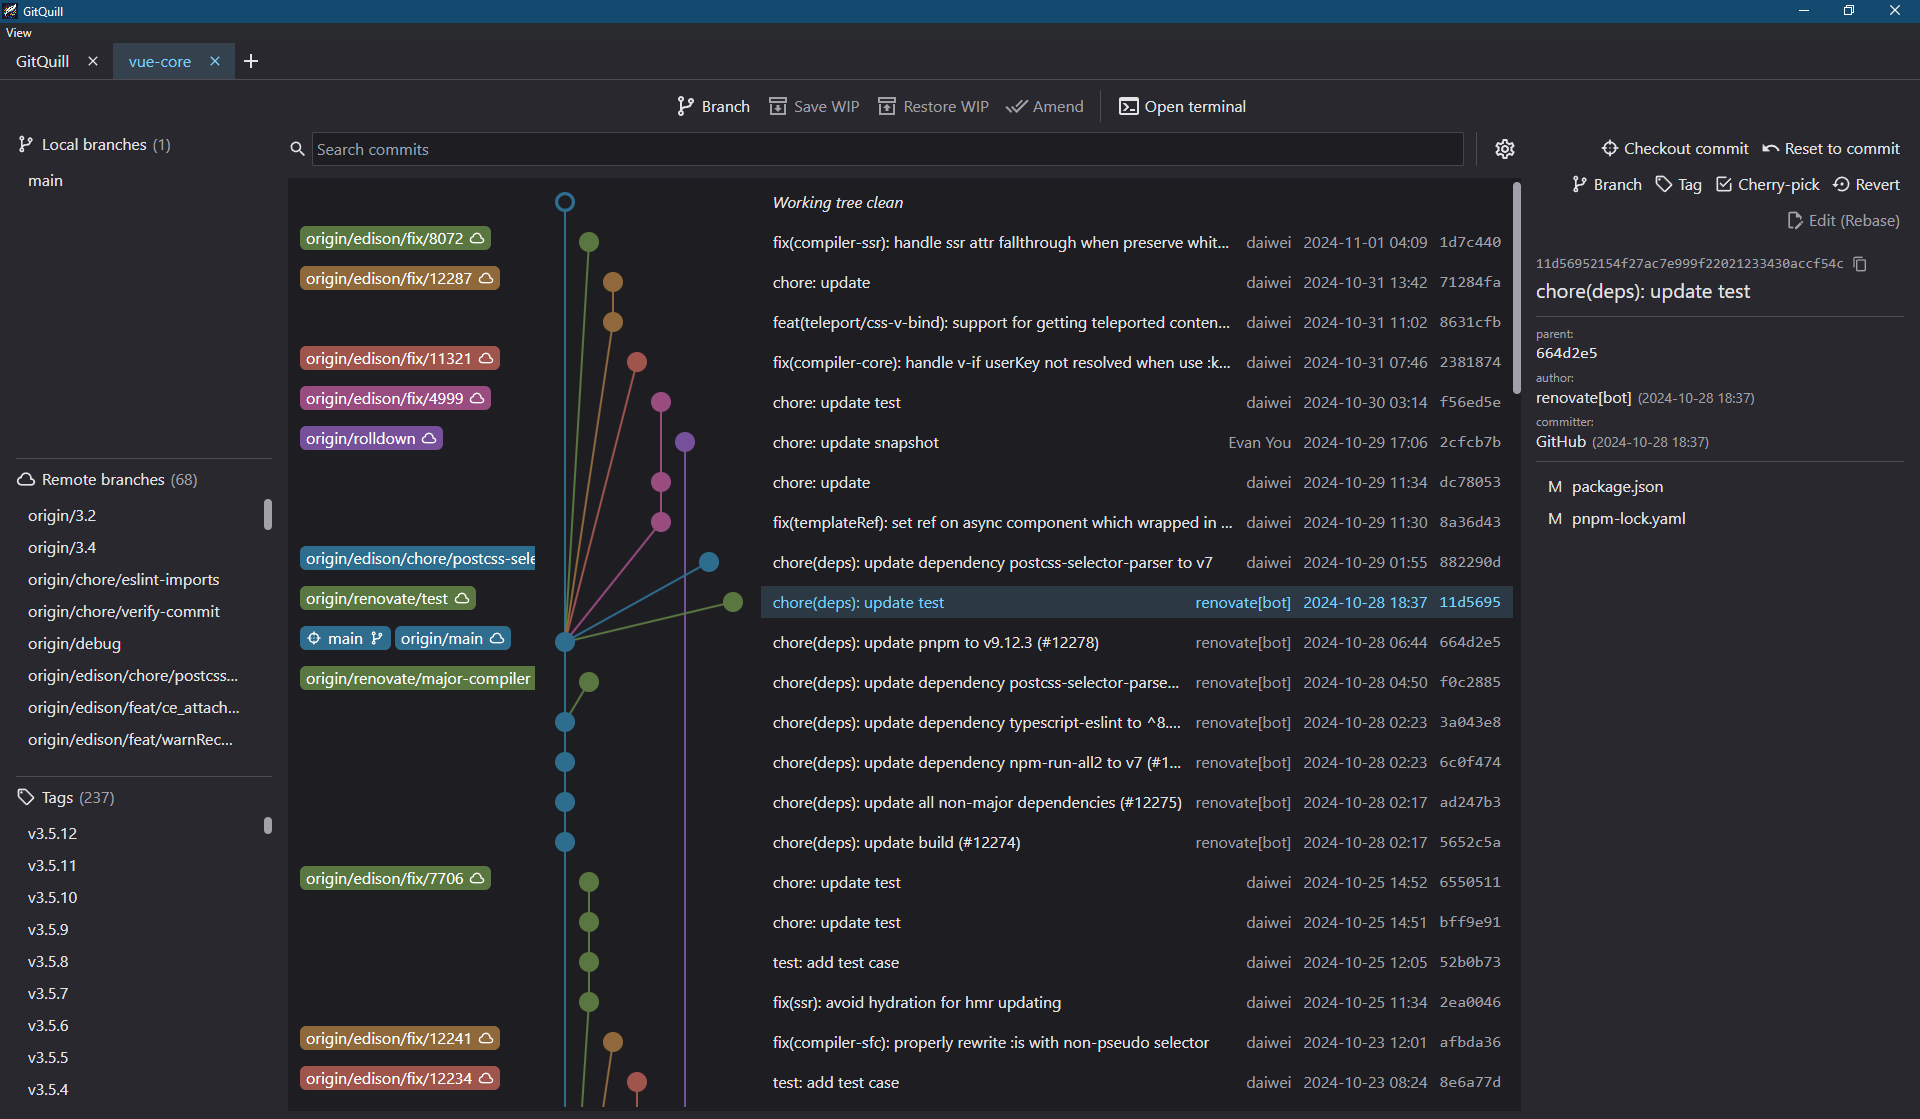
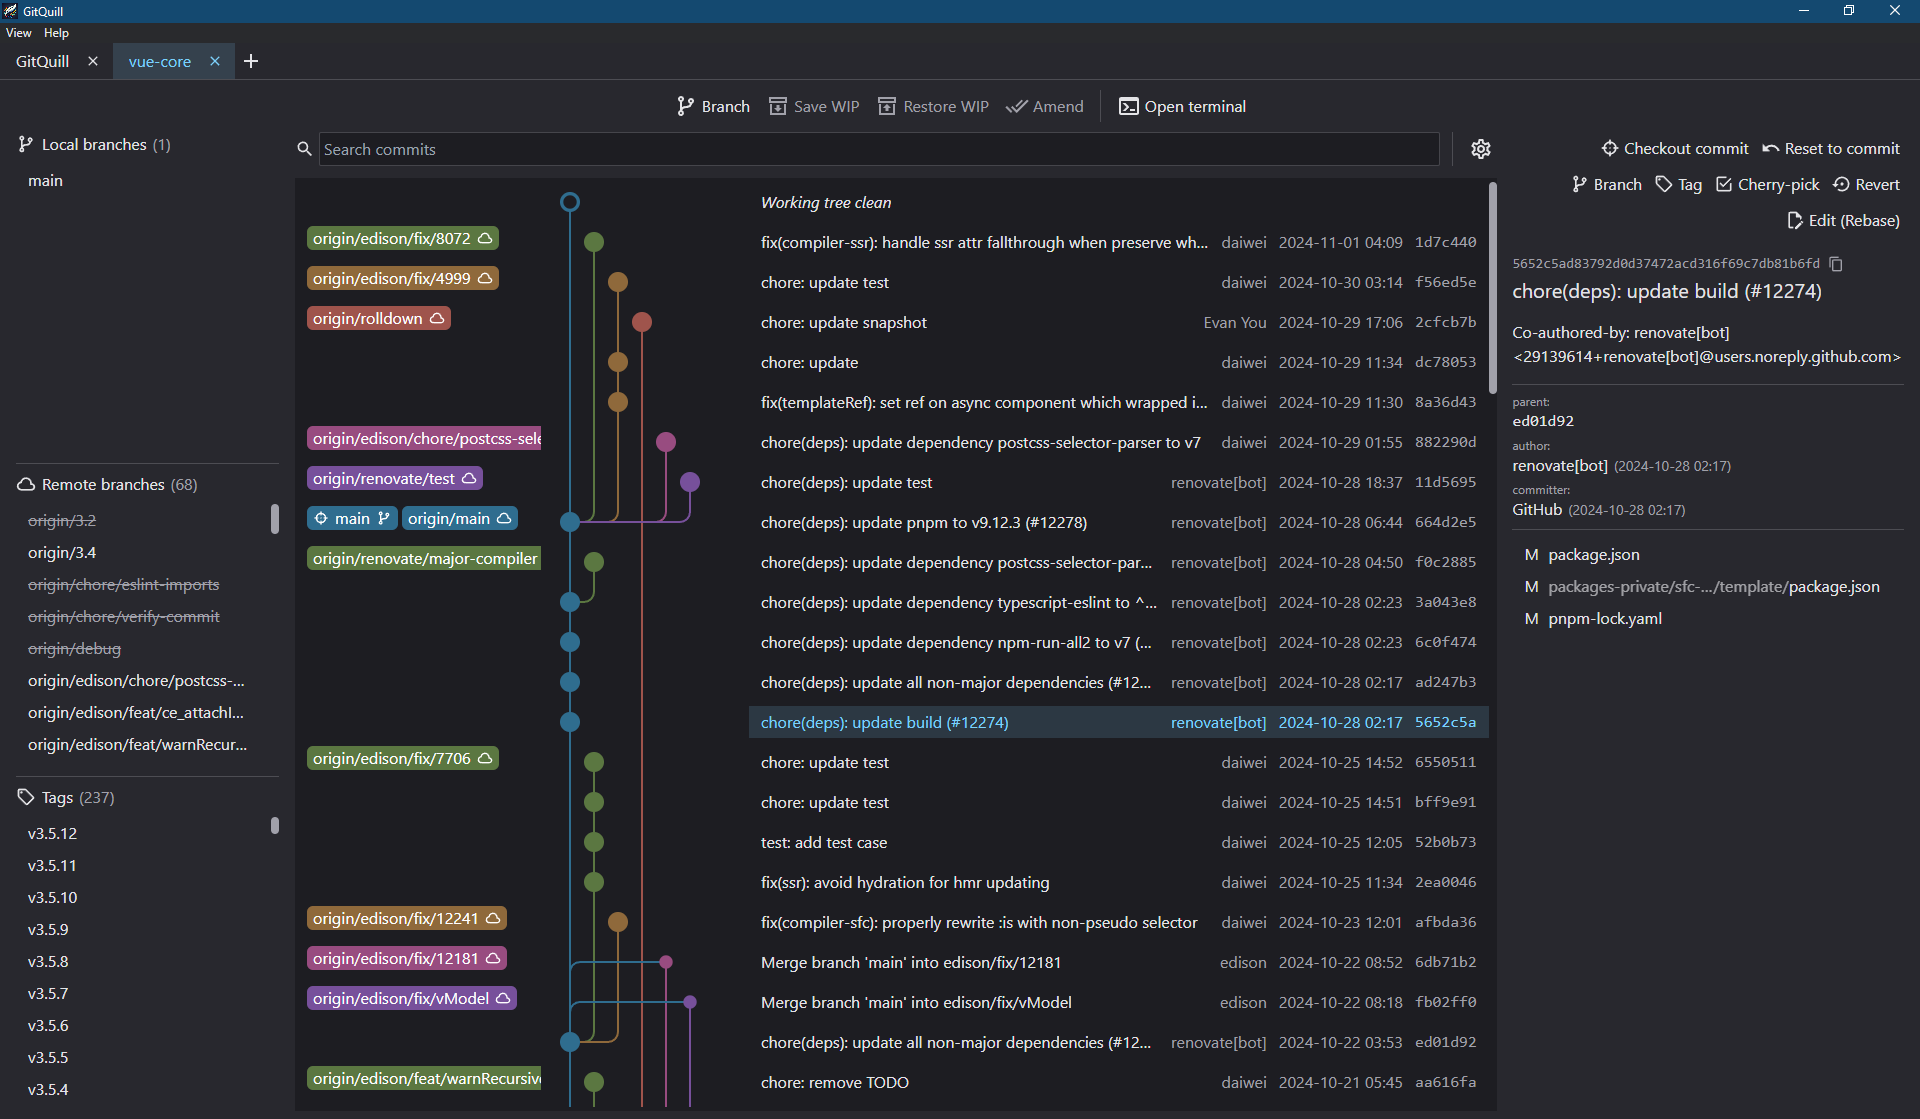
Nicer graph rendering

diff --git a/src/components/CommitHistory/CommitGraph.vue b/src/components/CommitHistory/CommitGraph.vue
@@ -66,23 +66,38 @@
                     for (const parent_hash of commit.parents) {
                         const commit_coords = coords[commit.hash];
                         const parent_coords = coords[parent_hash];
+                        let color_index;
 
-                        ctx.strokeStyle = settings.colors[commit.level % settings.colors.length];
-                        ctx.lineWidth = 2;
                         ctx.beginPath();
                         ctx.moveTo(...commit_coords);
+
                         if (parent_coords === undefined) {
                             ctx.lineTo(commit_coords[0], canvas.height);
                         } else {
+                            const radius = this.row_height / 4;
+                            const dir = Math.sign(commit_coords[0] - parent_coords[0]);
+
+                            if (commit.parents.length === 1) {
+                                color_index = commit.level;
+                                ctx.lineTo(commit_coords[0], parent_coords[1] - radius);
+                                ctx.arcTo(commit_coords[0], parent_coords[1], commit_coords[0] - radius * dir, parent_coords[1], radius);
+                            } else {
+                                // Merge commit.
+                                color_index = this.commit_by_hash[parent_hash].level;
+                                ctx.lineTo(parent_coords[0] + radius * dir, commit_coords[1]);
+                                ctx.arcTo(parent_coords[0], commit_coords[1], parent_coords[0], commit_coords[1] + radius, radius);
+                            }
                             ctx.lineTo(...parent_coords);
                         }
+                        ctx.strokeStyle = settings.colors[color_index % settings.colors.length];
+                        ctx.lineWidth = 2;
                         ctx.stroke();
                     }
                 }
                 for (const commit of commits_to_draw) {
                     ctx.fillStyle = settings.colors[commit.level % settings.colors.length];
                     ctx.beginPath();
-                    ctx.arc(...coords[commit.hash], size/2, 0, 2*Math.PI);
+                    ctx.arc(...coords[commit.hash], commit.parents.length <= 1 ? size/2 : size/3, 0, 2*Math.PI);
                     ctx.fill();
 
                     if (commit.hash === 'WORKING_TREE') {
